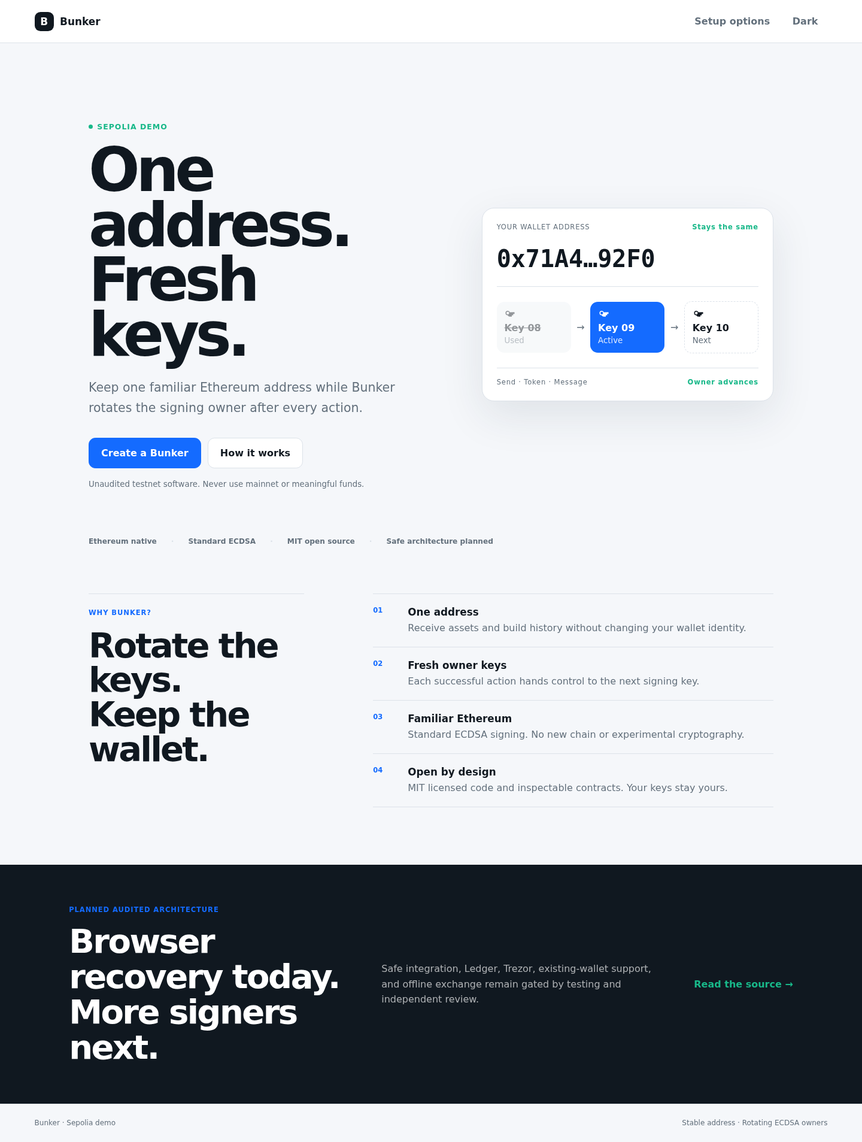
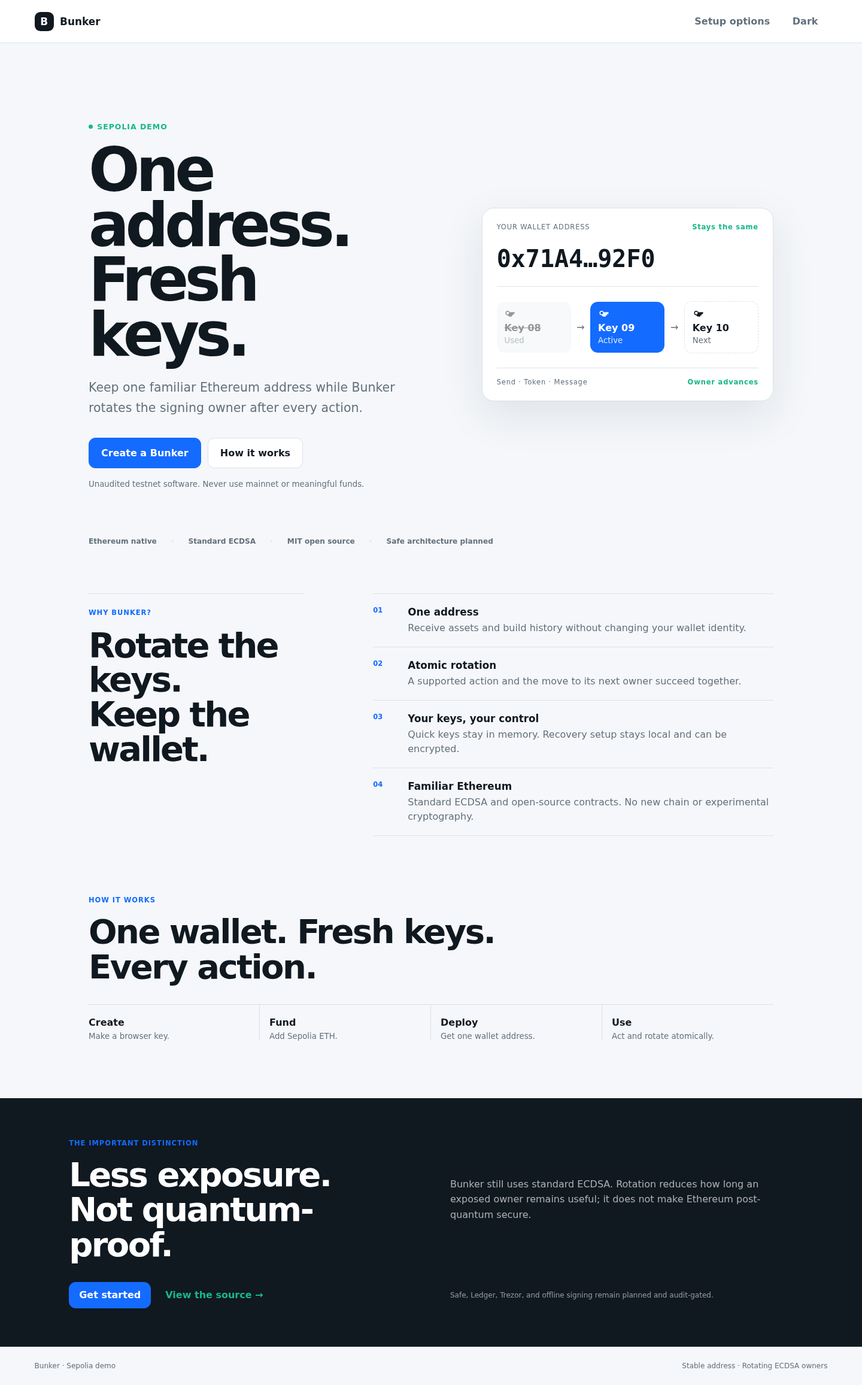
Clarify atomic rotation and quantum limits

diff --git a/apps/web/src/styles.css b/apps/web/src/styles.css
@@ -1,1 +1,1 @@
-:root{font-family:ui-sans-serif,-apple-system,BlinkMacSystemFont,"Segoe UI",sans-serif;font-synthesis:none;color-scheme:light;background:#f5f7fa}*{box-sizing:border-box}body{margin:0}button,input,textarea{font:inherit}.site{--bg:#f5f7fa;--surface:#fff;--soft:#eef2f6;--line:#dce2e9;--text:#101820;--muted:#63707c;--accent:#146bff;--mint:#18b889;--ink:#fff;min-height:100vh;background:var(--bg);color:var(--text)}.site.dark{--bg:#0b0f14;--surface:#121820;--soft:#18212b;--line:#283442;--text:#f1f5f8;--muted:#9eabb7;--accent:#5c95ff;--mint:#4dd4aa;--ink:#071018;color-scheme:dark}::selection{background:var(--accent);color:#fff}button{border:1px solid var(--line);background:var(--surface);color:var(--text);border-radius:.7rem;padding:.72rem 1rem;font-weight:650;cursor:pointer}button:hover:not(:disabled){border-color:var(--accent)}button:disabled{opacity:.48;cursor:not-allowed}button:focus-visible,input:focus-visible,textarea:focus-visible,a:focus-visible{outline:3px solid var(--accent);outline-offset:2px}.primary{background:var(--accent);border-color:var(--accent);color:#fff}.wide{width:100%;padding:.95rem}.top{height:72px;display:flex;align-items:center;padding:0 clamp(1rem,4vw,4rem);border-bottom:1px solid var(--line);background:color-mix(in srgb,var(--surface),transparent 8%);position:relative;z-index:2}.brand{border:0;background:transparent;padding:0;display:flex;align-items:center;gap:.65rem;font-size:1.06rem}.brand span{display:grid;place-items:center;width:32px;height:32px;border-radius:.6rem;background:var(--text);color:var(--surface);font-weight:900}.top nav{margin-left:auto;display:flex;gap:.35rem}.top nav button{border:0;background:transparent;color:var(--muted)}.top nav button:hover{color:var(--text);background:var(--soft)}.toast{position:fixed;top:84px;left:50%;transform:translateX(-50%);z-index:10;background:var(--text);color:var(--surface);padding:.75rem 1rem;border-radius:2rem;box-shadow:0 12px 35px rgba(0,0,0,.16);font-size:.86rem;max-width:calc(100vw - 2rem)}main{min-height:calc(100vh - 136px)}.hero-new{max-width:1240px;margin:auto;padding:clamp(4rem,9vw,8rem) clamp(1rem,4vw,3rem) 5rem;display:grid;grid-template-columns:1fr .9fr;gap:clamp(3rem,8vw,8rem);align-items:center}.status-dot{display:inline-flex;align-items:center;gap:.45rem;color:var(--mint);font-size:.78rem;font-weight:750;text-transform:uppercase;letter-spacing:.08em}.status-dot:before{content:"";width:7px;height:7px;border-radius:50%;background:var(--mint)}h1,h2,p{margin-top:0}.hero-copy h1{font-size:clamp(3.5rem,7vw,6.8rem);line-height:.91;letter-spacing:-.065em;margin:1.25rem 0 1.6rem;max-width:10ch}.hero-copy>p{font-size:clamp(1.05rem,1.6vw,1.28rem);line-height:1.65;color:var(--muted);max-width:590px}.hero-actions,.secure-actions,.setup-actions{display:flex;gap:.7rem;flex-wrap:wrap;margin:2rem 0 1rem}.hero-actions button{padding:.95rem 1.25rem}.hero-copy>small{color:var(--muted)}.mechanism{background:var(--surface);border:1px solid var(--line);border-radius:1.25rem;padding:1.5rem;box-shadow:0 24px 70px rgba(34,51,68,.1)}.address-head,.action-line{display:flex;justify-content:space-between;gap:1rem;font-size:.72rem;color:var(--muted);letter-spacing:.07em}.address-head b,.action-line b{color:var(--mint)}.mechanism>code{display:block;font:700 clamp(1.5rem,3vw,2.5rem)/1 ui-monospace,SFMono-Regular,monospace;padding:1.6rem 0;border-bottom:1px solid var(--line)}.key-track{display:grid;grid-template-columns:1fr auto 1fr auto 1fr;align-items:center;gap:.6rem;padding:1.5rem 0}.key{display:grid;gap:.25rem;padding:.8rem;border-radius:.8rem;background:var(--soft)}.key svg{width:20px;fill:currentColor}.key span{font-weight:750}.key small{color:var(--muted)}.key.spent{opacity:.45}.key.spent span{text-decoration:line-through}.key.active{background:var(--accent);color:#fff}.key.active small{color:#dfeaff}.key.next{border:1px dashed var(--line);background:transparent}.key-track>i{font-style:normal;color:var(--muted)}.action-line{padding-top:1rem;border-top:1px solid var(--line)}.button-link{display:inline-flex;align-items:center;border:1px solid var(--line);background:var(--surface);color:var(--text);border-radius:.7rem;padding:.95rem 1.25rem;font-weight:650;text-decoration:none}.button-link:hover{border-color:var(--accent)}.trust-line{max-width:1240px;margin:auto;padding:0 clamp(1rem,4vw,3rem) 5rem;display:flex;gap:1.5rem;flex-wrap:wrap;color:var(--muted);font-size:.76rem;font-weight:700}.trust-line span+span:before{content:"·";margin-right:1.5rem;color:var(--line)}.why{max-width:1240px;margin:auto;padding:0 clamp(1rem,4vw,3rem) 6rem;display:grid;grid-template-columns:.7fr 1.3fr;gap:clamp(3rem,8vw,8rem)}.why-head{border-top:1px solid var(--line);padding-top:1.2rem}.why-head>span,.roadmap span{color:var(--accent);font-size:.72rem;font-weight:750;text-transform:uppercase;letter-spacing:.08em}.why-head h2{font-size:clamp(2.2rem,4vw,4.2rem);line-height:1;letter-spacing:-.05em;margin:1.2rem 0}.why-list{border-top:1px solid var(--line)}.why-list article{display:grid;grid-template-columns:42px 1fr;gap:1rem;padding:1.2rem 0;border-bottom:1px solid var(--line)}.why-list article>b{color:var(--accent);font-size:.72rem}.why-list h3{margin:0 0 .35rem;font-size:1.05rem}.why-list p{margin:0;color:var(--muted);line-height:1.5}.roadmap{background:var(--text);color:var(--surface);padding:4rem max(clamp(1rem,8vw,8rem),calc((100vw - 1240px)/2));display:grid;grid-template-columns:1fr 1fr auto;gap:3rem;align-items:center}.roadmap h2{font-size:clamp(2rem,4vw,3.5rem);line-height:1.05;letter-spacing:-.045em;margin:1rem 0 0}.roadmap p{color:color-mix(in srgb,var(--surface),transparent 35%);line-height:1.6;margin:0}.roadmap a{color:var(--mint);font-weight:750;text-decoration:none;white-space:nowrap}.setup,.advanced,.secure{width:min(720px,calc(100% - 2rem));margin:auto;padding:clamp(3rem,8vw,7rem) 0}.ephemeral-note{font-size:.8rem;color:var(--muted);border-left:1px solid var(--mint);padding-left:.8rem}.setup h1,.advanced h1,.secure h1{font-size:clamp(2.5rem,6vw,4.8rem);line-height:.98;letter-spacing:-.05em;margin:2rem 0 1rem}.stepper{display:grid;grid-template-columns:repeat(3,1fr);position:relative}.stepper:before{content:"";position:absolute;left:2rem;right:2rem;top:17px;height:1px;background:var(--line)}.stepper span{position:relative;display:grid;justify-items:center;gap:.5rem;color:var(--muted);font-size:.72rem}.stepper span:first-letter{background:var(--surface)}.stepper span b{font-size:.8rem}.stepper span.done{color:var(--mint)}.setup-address,.stable{margin:2rem 0;background:var(--surface);border:1px solid var(--line);border-radius:1rem;padding:1rem;display:grid;grid-template-columns:1fr auto;gap:.65rem;align-items:center}.setup-address span,.stable span{font-size:.75rem;color:var(--muted)}.setup-address code,.stable code{grid-column:1/2;overflow-wrap:anywhere;color:var(--accent)}.setup-address button{grid-row:1/3;grid-column:2}.balance-row{display:flex;justify-content:space-between;border-block:1px solid var(--line);padding:1.2rem 0}.setup-actions button{flex:1}.text-button,.back{border:0;background:transparent;color:var(--muted);padding-left:0}.wallet{max-width:1180px;margin:auto;padding:clamp(2.5rem,6vw,5rem) 1rem}.wallet-top{display:grid;grid-template-columns:1fr 340px;gap:2rem;align-items:end}.wallet-top h1{font-size:clamp(3.5rem,7vw,6rem);letter-spacing:-.06em;margin:1rem 0 .5rem}.address-copy{border:0;padding-left:0;background:transparent;color:var(--muted)}.spendable{display:block;color:var(--muted);margin-bottom:.6rem}.rotation-card{background:var(--text);color:var(--surface);padding:1.4rem;border-radius:1rem}.rotation-card>span{font-size:.68rem;letter-spacing:.1em}.rotation-card strong{display:block;font-size:2rem;margin:.5rem 0}.rotation-card p{color:color-mix(in srgb,var(--surface),transparent 35%);font-size:.8rem}.rotation-card>div{height:5px;background:color-mix(in srgb,var(--surface),transparent 80%);border-radius:5px}.rotation-card i{display:block;height:100%;background:var(--mint);border-radius:5px}.stable{grid-template-columns:1fr auto}.stable b{grid-row:1/3;grid-column:2;color:var(--mint);font-size:.75rem}.wallet-grid{display:grid;grid-template-columns:1.25fr .75fr;gap:2rem;margin-top:2rem}.actions-panel,.activity{background:var(--surface);border:1px solid var(--line);border-radius:1rem;padding:1.4rem}.action-tabs{display:flex;gap:.4rem;border-bottom:1px solid var(--line);margin:-.3rem -.3rem 1.5rem;padding:0 .3rem 1rem}.action-tabs button{display:flex;gap:.4rem;align-items:center;border:0;background:transparent;color:var(--muted)}.action-tabs button.active{background:var(--soft);color:var(--text)}svg{width:18px;height:18px;fill:currentColor}.actions-panel h2,.activity h2{font-size:1.15rem}.actions-panel label{display:grid;gap:.45rem;margin:1rem 0;color:var(--muted);font-size:.78rem}.actions-panel input,.actions-panel textarea,.secure input,.secure textarea{width:100%;border:1px solid var(--line);background:var(--bg);color:var(--text);padding:.85rem;border-radius:.65rem}.split{display:grid;grid-template-columns:1fr 110px;gap:.7rem}.activity-row{display:grid;grid-template-columns:auto 1fr auto;gap:.8rem;align-items:start;padding:1rem 0;border-top:1px solid var(--line)}.activity-row>span{font-size:.65rem;background:var(--soft);padding:.3rem .45rem;border-radius:1rem;color:var(--muted)}.activity-row p{display:grid;gap:.25rem;margin:0}.activity-row small{color:var(--muted)}.activity-row a{color:var(--accent);font-size:.75rem}.option-list{display:grid;margin-top:2.5rem;border-top:1px solid var(--line)}.option-list button{border:0;border-bottom:1px solid var(--line);border-radius:0;background:transparent;display:grid;grid-template-columns:1fr auto;text-align:left;padding:1.2rem 0}.option-list button span{font-size:1rem}.option-list button small{grid-row:2;color:var(--muted);font-weight:400}.option-list button b{grid-row:1/3;grid-column:2;align-self:center;color:var(--accent)}.words{list-style:none;display:grid;grid-template-columns:repeat(4,1fr);gap:1px;background:var(--line);padding:1px;margin:2rem 0}.words li{background:var(--surface);padding:.8rem;font-weight:700}.words span{display:block;color:var(--muted);font-size:.65rem}.check{display:flex;gap:.6rem;align-items:center;color:var(--muted)}.check input{width:auto}.confirm{display:grid;grid-template-columns:repeat(3,1fr);gap:.7rem}.secure label{display:grid;gap:.45rem;margin:1rem 0;color:var(--muted);font-size:.8rem}footer{height:64px;border-top:1px solid var(--line);display:flex;justify-content:space-between;align-items:center;padding:0 clamp(1rem,4vw,4rem);color:var(--muted);font-size:.75rem}@media(max-width:760px){.top{height:64px}.top nav button:not(.theme){display:none}.hero-new{grid-template-columns:1fr;padding-top:3rem;gap:3rem}.hero-copy h1{font-size:3.8rem}.hero-actions{display:grid}.mechanism{padding:1rem}.key-track{gap:.3rem}.key{padding:.55rem}.key-track>i{display:none}.trust-line{display:grid;grid-template-columns:1fr 1fr;gap:.65rem 1rem}.trust-line span+span:before{content:none}.why{grid-template-columns:1fr;gap:1.5rem}.roadmap{grid-template-columns:1fr;gap:1.5rem}.roadmap a{white-space:normal}.wallet-top,.wallet-grid{grid-template-columns:1fr}.stable{grid-template-columns:1fr}.stable b{grid-row:auto;grid-column:1}.words{grid-template-columns:repeat(3,1fr)}.confirm{grid-template-columns:1fr}.setup-actions,.secure-actions{display:grid}.action-tabs button{padding:.65rem}.toast{top:72px}}@media(prefers-reduced-motion:reduce){*{scroll-behavior:auto!important;transition:none!important}}
+:root{font-family:ui-sans-serif,-apple-system,BlinkMacSystemFont,"Segoe UI",sans-serif;font-synthesis:none;color-scheme:light;background:#f5f7fa}*{box-sizing:border-box}body{margin:0}button,input,textarea{font:inherit}.site{--bg:#f5f7fa;--surface:#fff;--soft:#eef2f6;--line:#dce2e9;--text:#101820;--muted:#63707c;--accent:#146bff;--mint:#18b889;--ink:#fff;min-height:100vh;background:var(--bg);color:var(--text)}.site.dark{--bg:#0b0f14;--surface:#121820;--soft:#18212b;--line:#283442;--text:#f1f5f8;--muted:#9eabb7;--accent:#5c95ff;--mint:#4dd4aa;--ink:#071018;color-scheme:dark}::selection{background:var(--accent);color:#fff}button{border:1px solid var(--line);background:var(--surface);color:var(--text);border-radius:.7rem;padding:.72rem 1rem;font-weight:650;cursor:pointer}button:hover:not(:disabled){border-color:var(--accent)}button:disabled{opacity:.48;cursor:not-allowed}button:focus-visible,input:focus-visible,textarea:focus-visible,a:focus-visible{outline:3px solid var(--accent);outline-offset:2px}.primary{background:var(--accent);border-color:var(--accent);color:#fff}.wide{width:100%;padding:.95rem}.top{height:72px;display:flex;align-items:center;padding:0 clamp(1rem,4vw,4rem);border-bottom:1px solid var(--line);background:color-mix(in srgb,var(--surface),transparent 8%);position:relative;z-index:2}.brand{border:0;background:transparent;padding:0;display:flex;align-items:center;gap:.65rem;font-size:1.06rem}.brand span{display:grid;place-items:center;width:32px;height:32px;border-radius:.6rem;background:var(--text);color:var(--surface);font-weight:900}.top nav{margin-left:auto;display:flex;gap:.35rem}.top nav button{border:0;background:transparent;color:var(--muted)}.top nav button:hover{color:var(--text);background:var(--soft)}.toast{position:fixed;top:84px;left:50%;transform:translateX(-50%);z-index:10;background:var(--text);color:var(--surface);padding:.75rem 1rem;border-radius:2rem;box-shadow:0 12px 35px rgba(0,0,0,.16);font-size:.86rem;max-width:calc(100vw - 2rem)}main{min-height:calc(100vh - 136px)}.hero-new{max-width:1240px;margin:auto;padding:clamp(4rem,9vw,8rem) clamp(1rem,4vw,3rem) 5rem;display:grid;grid-template-columns:1fr .9fr;gap:clamp(3rem,8vw,8rem);align-items:center}.status-dot{display:inline-flex;align-items:center;gap:.45rem;color:var(--mint);font-size:.78rem;font-weight:750;text-transform:uppercase;letter-spacing:.08em}.status-dot:before{content:"";width:7px;height:7px;border-radius:50%;background:var(--mint)}h1,h2,p{margin-top:0}.hero-copy h1{font-size:clamp(3.5rem,7vw,6.8rem);line-height:.91;letter-spacing:-.065em;margin:1.25rem 0 1.6rem;max-width:10ch}.hero-copy>p{font-size:clamp(1.05rem,1.6vw,1.28rem);line-height:1.65;color:var(--muted);max-width:590px}.hero-actions,.secure-actions,.setup-actions{display:flex;gap:.7rem;flex-wrap:wrap;margin:2rem 0 1rem}.hero-actions button{padding:.95rem 1.25rem}.hero-copy>small{color:var(--muted)}.mechanism{background:var(--surface);border:1px solid var(--line);border-radius:1.25rem;padding:1.5rem;box-shadow:0 24px 70px rgba(34,51,68,.1)}.address-head,.action-line{display:flex;justify-content:space-between;gap:1rem;font-size:.72rem;color:var(--muted);letter-spacing:.07em}.address-head b,.action-line b{color:var(--mint)}.mechanism>code{display:block;font:700 clamp(1.5rem,3vw,2.5rem)/1 ui-monospace,SFMono-Regular,monospace;padding:1.6rem 0;border-bottom:1px solid var(--line)}.key-track{display:grid;grid-template-columns:1fr auto 1fr auto 1fr;align-items:center;gap:.6rem;padding:1.5rem 0}.key{display:grid;gap:.25rem;padding:.8rem;border-radius:.8rem;background:var(--soft)}.key svg{width:20px;fill:currentColor}.key span{font-weight:750}.key small{color:var(--muted)}.key.spent{opacity:.45}.key.spent span{text-decoration:line-through}.key.active{background:var(--accent);color:#fff}.key.active small{color:#dfeaff}.key.next{border:1px dashed var(--line);background:transparent}.key-track>i{font-style:normal;color:var(--muted)}.action-line{padding-top:1rem;border-top:1px solid var(--line)}.button-link{display:inline-flex;align-items:center;border:1px solid var(--line);background:var(--surface);color:var(--text);border-radius:.7rem;padding:.95rem 1.25rem;font-weight:650;text-decoration:none}.button-link:hover{border-color:var(--accent)}.trust-line{max-width:1240px;margin:auto;padding:0 clamp(1rem,4vw,3rem) 5rem;display:flex;gap:1.5rem;flex-wrap:wrap;color:var(--muted);font-size:.76rem;font-weight:700}.trust-line span+span:before{content:"·";margin-right:1.5rem;color:var(--line)}.why{max-width:1240px;margin:auto;padding:0 clamp(1rem,4vw,3rem) 6rem;display:grid;grid-template-columns:.7fr 1.3fr;gap:clamp(3rem,8vw,8rem)}.why-head{border-top:1px solid var(--line);padding-top:1.2rem}.why-head>span,.roadmap span{color:var(--accent);font-size:.72rem;font-weight:750;text-transform:uppercase;letter-spacing:.08em}.why-head h2{font-size:clamp(2.2rem,4vw,4.2rem);line-height:1;letter-spacing:-.05em;margin:1.2rem 0}.why-list{border-top:1px solid var(--line)}.why-list article{display:grid;grid-template-columns:42px 1fr;gap:1rem;padding:1.2rem 0;border-bottom:1px solid var(--line)}.why-list article>b{color:var(--accent);font-size:.72rem}.why-list h3{margin:0 0 .35rem;font-size:1.05rem}.why-list p{margin:0;color:var(--muted);line-height:1.5}.flow{max-width:1240px;margin:auto;padding:0 clamp(1rem,4vw,3rem) 6rem}.flow>span{color:var(--accent);font-size:.72rem;font-weight:750;text-transform:uppercase;letter-spacing:.08em}.flow h2{font-size:clamp(2rem,4vw,3.5rem);line-height:1.05;letter-spacing:-.045em;margin:1rem 0 2rem}.flow ol{list-style:none;margin:0;padding:0;display:grid;grid-template-columns:repeat(4,1fr);border-top:1px solid var(--line)}.flow li{padding:1.25rem 1rem 0 0;border-right:1px solid var(--line);display:grid;gap:.35rem}.flow li+li{padding-left:1rem}.flow li:last-child{border:0}.flow small{color:var(--muted)}.roadmap{background:var(--text);color:var(--surface);padding:4rem max(clamp(1rem,8vw,8rem),calc((100vw - 1240px)/2));display:grid;grid-template-columns:1fr 1fr;gap:2rem 4rem;align-items:center}.roadmap h2{font-size:clamp(2rem,4vw,3.5rem);line-height:1.05;letter-spacing:-.045em;margin:1rem 0 0}.roadmap p{color:color-mix(in srgb,var(--surface),transparent 35%);line-height:1.6;margin:0}.roadmap-links{display:flex;align-items:center;gap:1.5rem}.roadmap a{color:var(--mint);font-weight:750;text-decoration:none;white-space:nowrap}.roadmap>small{color:color-mix(in srgb,var(--surface),transparent 45%);grid-column:2;font-size:.75rem}.setup,.advanced,.secure{width:min(720px,calc(100% - 2rem));margin:auto;padding:clamp(3rem,8vw,7rem) 0}.ephemeral-note{font-size:.8rem;color:var(--muted);border-left:1px solid var(--mint);padding-left:.8rem}.setup h1,.advanced h1,.secure h1{font-size:clamp(2.5rem,6vw,4.8rem);line-height:.98;letter-spacing:-.05em;margin:2rem 0 1rem}.stepper{display:grid;grid-template-columns:repeat(3,1fr);position:relative}.stepper:before{content:"";position:absolute;left:2rem;right:2rem;top:17px;height:1px;background:var(--line)}.stepper span{position:relative;display:grid;justify-items:center;gap:.5rem;color:var(--muted);font-size:.72rem}.stepper span:first-letter{background:var(--surface)}.stepper span b{font-size:.8rem}.stepper span.done{color:var(--mint)}.setup-address,.stable{margin:2rem 0;background:var(--surface);border:1px solid var(--line);border-radius:1rem;padding:1rem;display:grid;grid-template-columns:1fr auto;gap:.65rem;align-items:center}.setup-address span,.stable span{font-size:.75rem;color:var(--muted)}.setup-address code,.stable code{grid-column:1/2;overflow-wrap:anywhere;color:var(--accent)}.setup-address button{grid-row:1/3;grid-column:2}.balance-row{display:flex;justify-content:space-between;border-block:1px solid var(--line);padding:1.2rem 0}.setup-actions button{flex:1}.text-button,.back{border:0;background:transparent;color:var(--muted);padding-left:0}.wallet{max-width:1180px;margin:auto;padding:clamp(2.5rem,6vw,5rem) 1rem}.wallet-top{display:grid;grid-template-columns:1fr 340px;gap:2rem;align-items:end}.wallet-top h1{font-size:clamp(3.5rem,7vw,6rem);letter-spacing:-.06em;margin:1rem 0 .5rem}.address-copy{border:0;padding-left:0;background:transparent;color:var(--muted)}.spendable{display:block;color:var(--muted);margin-bottom:.6rem}.rotation-card{background:var(--text);color:var(--surface);padding:1.4rem;border-radius:1rem}.rotation-card>span{font-size:.68rem;letter-spacing:.1em}.rotation-card strong{display:block;font-size:2rem;margin:.5rem 0}.rotation-card p{color:color-mix(in srgb,var(--surface),transparent 35%);font-size:.8rem}.rotation-card>div{height:5px;background:color-mix(in srgb,var(--surface),transparent 80%);border-radius:5px}.rotation-card i{display:block;height:100%;background:var(--mint);border-radius:5px}.stable{grid-template-columns:1fr auto}.stable b{grid-row:1/3;grid-column:2;color:var(--mint);font-size:.75rem}.wallet-grid{display:grid;grid-template-columns:1.25fr .75fr;gap:2rem;margin-top:2rem}.actions-panel,.activity{background:var(--surface);border:1px solid var(--line);border-radius:1rem;padding:1.4rem}.action-tabs{display:flex;gap:.4rem;border-bottom:1px solid var(--line);margin:-.3rem -.3rem 1.5rem;padding:0 .3rem 1rem}.action-tabs button{display:flex;gap:.4rem;align-items:center;border:0;background:transparent;color:var(--muted)}.action-tabs button.active{background:var(--soft);color:var(--text)}svg{width:18px;height:18px;fill:currentColor}.actions-panel h2,.activity h2{font-size:1.15rem}.actions-panel label{display:grid;gap:.45rem;margin:1rem 0;color:var(--muted);font-size:.78rem}.actions-panel input,.actions-panel textarea,.secure input,.secure textarea{width:100%;border:1px solid var(--line);background:var(--bg);color:var(--text);padding:.85rem;border-radius:.65rem}.split{display:grid;grid-template-columns:1fr 110px;gap:.7rem}.activity-row{display:grid;grid-template-columns:auto 1fr auto;gap:.8rem;align-items:start;padding:1rem 0;border-top:1px solid var(--line)}.activity-row>span{font-size:.65rem;background:var(--soft);padding:.3rem .45rem;border-radius:1rem;color:var(--muted)}.activity-row p{display:grid;gap:.25rem;margin:0}.activity-row small{color:var(--muted)}.activity-row a{color:var(--accent);font-size:.75rem}.option-list{display:grid;margin-top:2.5rem;border-top:1px solid var(--line)}.option-list button{border:0;border-bottom:1px solid var(--line);border-radius:0;background:transparent;display:grid;grid-template-columns:1fr auto;text-align:left;padding:1.2rem 0}.option-list button span{font-size:1rem}.option-list button small{grid-row:2;color:var(--muted);font-weight:400}.option-list button b{grid-row:1/3;grid-column:2;align-self:center;color:var(--accent)}.words{list-style:none;display:grid;grid-template-columns:repeat(4,1fr);gap:1px;background:var(--line);padding:1px;margin:2rem 0}.words li{background:var(--surface);padding:.8rem;font-weight:700}.words span{display:block;color:var(--muted);font-size:.65rem}.check{display:flex;gap:.6rem;align-items:center;color:var(--muted)}.check input{width:auto}.confirm{display:grid;grid-template-columns:repeat(3,1fr);gap:.7rem}.secure label{display:grid;gap:.45rem;margin:1rem 0;color:var(--muted);font-size:.8rem}footer{height:64px;border-top:1px solid var(--line);display:flex;justify-content:space-between;align-items:center;padding:0 clamp(1rem,4vw,4rem);color:var(--muted);font-size:.75rem}@media(max-width:760px){.top{height:64px}.top nav button:not(.theme){display:none}.hero-new{grid-template-columns:1fr;padding-top:3rem;gap:3rem}.hero-copy h1{font-size:3.8rem}.hero-actions{display:grid}.mechanism{padding:1rem}.key-track{gap:.3rem}.key{padding:.55rem}.key-track>i{display:none}.trust-line{display:grid;grid-template-columns:1fr 1fr;gap:.65rem 1rem}.trust-line span+span:before{content:none}.why{grid-template-columns:1fr;gap:1.5rem}.flow ol{grid-template-columns:1fr 1fr}.flow li{border-bottom:1px solid var(--line);border-right:0;padding:1rem 0}.flow li+li{padding-left:0}.roadmap{grid-template-columns:1fr;gap:1.5rem}.roadmap a{white-space:normal}.roadmap>small{grid-column:1}.wallet-top,.wallet-grid{grid-template-columns:1fr}.stable{grid-template-columns:1fr}.stable b{grid-row:auto;grid-column:1}.words{grid-template-columns:repeat(3,1fr)}.confirm{grid-template-columns:1fr}.setup-actions,.secure-actions{display:grid}.action-tabs button{padding:.65rem}.toast{top:72px}}@media(prefers-reduced-motion:reduce){*{scroll-behavior:auto!important;transition:none!important}}

diff --git a/apps/web/src/App.tsx b/apps/web/src/App.tsx
@@ -31,7 +31,7 @@ export default function App(){
  onCleanup(()=>{wipe();clearEphemeralBurner()});
  return <div class={`site ${theme()}`}><header class="top"><button class="brand" onClick={()=>go(walletAddress()?"wallet":"landing")}><span>B</span>Bunker</button><nav><Show when={walletAddress()}><button onClick={()=>go("wallet")}>Wallet</button></Show><button onClick={()=>go("advanced")}>Setup options</button><button class="theme" onClick={()=>setTheme(theme()==="light"?"dark":"light")}>{theme()==="light"?"Dark":"Light"}</button><Show when={walletAddress()}><button onClick={exit}>Exit</button></Show></nav></header><Show when={notice()}><div class="toast" role="status">{notice()}</div></Show>
  <main>
- <Show when={view()==="landing"}><section class="hero-new"><div class="hero-copy"><span class="status-dot">Sepolia demo</span><h1>One address.<br/>Fresh keys.</h1><p>Keep one familiar Ethereum address while Bunker rotates the signing owner after every action.</p><div class="hero-actions"><button class="primary" onClick={begin}>Create a Bunker</button><a class="button-link" href="#how-it-works">How it works</a></div><small>Unaudited testnet software. Never use mainnet or meaningful funds.</small></div><div class="mechanism" aria-label="Stable wallet address with rotating owner keys"><div class="address-head"><span>YOUR WALLET ADDRESS</span><b>Stays the same</b></div><code>0x71A4…92F0</code><div class="key-track"><div class="key spent"><Icon name="key"/><span>Key 08</span><small>Used</small></div><i>→</i><div class="key active"><Icon name="key"/><span>Key 09</span><small>Active</small></div><i>→</i><div class="key next"><Icon name="key"/><span>Key 10</span><small>Next</small></div></div><div class="action-line"><span>Send · Token · Message</span><b>Owner advances</b></div></div></section><div class="trust-line"><span>Ethereum native</span><span>Standard ECDSA</span><span>MIT open source</span><span>Safe architecture planned</span></div><section class="why" id="how-it-works"><div class="why-head"><span>Why Bunker?</span><h2>Rotate the keys.<br/>Keep the wallet.</h2></div><div class="why-list"><article><b>01</b><div><h3>One address</h3><p>Receive assets and build history without changing your wallet identity.</p></div></article><article><b>02</b><div><h3>Fresh owner keys</h3><p>Each successful action hands control to the next signing key.</p></div></article><article><b>03</b><div><h3>Familiar Ethereum</h3><p>Standard ECDSA signing. No new chain or experimental cryptography.</p></div></article><article><b>04</b><div><h3>Open by design</h3><p>MIT licensed code and inspectable contracts. Your keys stay yours.</p></div></article></div></section><section class="roadmap"><div><span>Planned audited architecture</span><h2>Browser recovery today.<br/>More signers next.</h2></div><p>Safe integration, Ledger, Trezor, existing-wallet support, and offline exchange remain gated by testing and independent review.</p><a href="https://github.com/SilentCicero/bunker-wallet" target="_blank" rel="noreferrer">Read the source →</a></section></Show>
+ <Show when={view()==="landing"}><section class="hero-new"><div class="hero-copy"><span class="status-dot">Sepolia demo</span><h1>One address.<br/>Fresh keys.</h1><p>Keep one familiar Ethereum address while Bunker rotates the signing owner after every action.</p><div class="hero-actions"><button class="primary" onClick={begin}>Create a Bunker</button><a class="button-link" href="#how-it-works">How it works</a></div><small>Unaudited testnet software. Never use mainnet or meaningful funds.</small></div><div class="mechanism" aria-label="Stable wallet address with rotating owner keys"><div class="address-head"><span>YOUR WALLET ADDRESS</span><b>Stays the same</b></div><code>0x71A4…92F0</code><div class="key-track"><div class="key spent"><Icon name="key"/><span>Key 08</span><small>Used</small></div><i>→</i><div class="key active"><Icon name="key"/><span>Key 09</span><small>Active</small></div><i>→</i><div class="key next"><Icon name="key"/><span>Key 10</span><small>Next</small></div></div><div class="action-line"><span>Send · Token · Message</span><b>Owner advances</b></div></div></section><div class="trust-line"><span>Ethereum native</span><span>Standard ECDSA</span><span>MIT open source</span><span>Safe architecture planned</span></div><section class="why" id="how-it-works"><div class="why-head"><span>Why Bunker?</span><h2>Rotate the keys.<br/>Keep the wallet.</h2></div><div class="why-list"><article><b>01</b><div><h3>One address</h3><p>Receive assets and build history without changing your wallet identity.</p></div></article><article><b>02</b><div><h3>Atomic rotation</h3><p>A supported action and the move to its next owner succeed together.</p></div></article><article><b>03</b><div><h3>Your keys, your control</h3><p>Quick keys stay in memory. Recovery setup stays local and can be encrypted.</p></div></article><article><b>04</b><div><h3>Familiar Ethereum</h3><p>Standard ECDSA and open-source contracts. No new chain or experimental cryptography.</p></div></article></div></section><section class="flow"><span>How it works</span><h2>One wallet. Fresh keys.<br/>Every action.</h2><ol><li><b>Create</b><small>Make a browser key.</small></li><li><b>Fund</b><small>Add Sepolia ETH.</small></li><li><b>Deploy</b><small>Get one wallet address.</small></li><li><b>Use</b><small>Act and rotate atomically.</small></li></ol></section><section class="roadmap"><div><span>The important distinction</span><h2>Less exposure.<br/>Not quantum-proof.</h2></div><p>Bunker still uses standard ECDSA. Rotation reduces how long an exposed owner remains useful; it does not make Ethereum post-quantum secure.</p><div class="roadmap-links"><button class="primary" onClick={begin}>Get started</button><a href="https://github.com/SilentCicero/bunker-wallet" target="_blank" rel="noreferrer">View the source →</a></div><small>Safe, Ledger, Trezor, and offline signing remain planned and audit-gated.</small></section></Show>
  <Show when={view()==="setup"}><section class="setup"><div class="stepper"><span class="done">1 <b>Key</b></span><span classList={{done:setupBalance()>=parseEther("0.007")}}>2 <b>Fund</b></span><span classList={{done:Boolean(walletAddress())}}>3 <b>Create</b></span></div><h1>{setupBalance()>=parseEther("0.007")?"Create your stable wallet.":"Add Sepolia test ETH."}</h1><p>{setupBalance()>=parseEther("0.007")?"Your setup key is funded. Create the wallet contract and move the test ETH into its permanent address.":"Your temporary setup address is ready and copied when you open a faucet."}</p><Show when={!recoverable()}><p class="ephemeral-note">Quick setup is memory-only. Do not refresh during funding or after wallet creation. Use Recovery phrase setup if you want restoration later.</p></Show><div class="setup-address"><span>Setup address</span><code>{setupAddress()}</code><button onClick={()=>copy(setupAddress())}>Copy</button></div><div class="balance-row"><span>Setup balance</span><strong>{Number(formatEther(setupBalance())).toFixed(4)} ETH</strong></div><Show when={setupBalance()>=parseEther("0.007")} fallback={<div class="setup-actions"><button class="primary" onClick={openFaucet}>Open QuickNode faucet</button><button onClick={checkFunding} disabled={Boolean(busy())}>{busy()||"I funded it — check balance"}</button></div>}><button class="primary wide" onClick={createStableWallet} disabled={Boolean(busy())}>{busy()||"Create stable wallet"}</button></Show><button class="text-button" onClick={()=>go("advanced")}>Use another setup method</button></section></Show>
  <Show when={view()==="wallet"&&walletAddress()}><section class="wallet"><div class="wallet-top"><div><span class="status-dot">Sepolia · live</span><h1>{Number(formatEther(walletBalance())).toFixed(4)} ETH</h1><small class="spendable">Keep 0.001 ETH for the next owner key on every action.</small><button class="address-copy" onClick={()=>copy(walletAddress())}>{short(walletAddress()!)} · Copy</button></div><div class="rotation-card"><span>OWNER ROTATION</span><strong>Key {rotation()+1}</strong><p>Active underneath your stable address</p><div><i style={{width:`${Math.min(100,(rotation()+1)*8)}%`}}/></div></div></div><div class="stable"><span>Stable wallet address</span><code>{walletAddress()}</code><b>Does not change</b></div><div class="wallet-grid"><section class="actions-panel"><div class="action-tabs"><button classList={{active:action()==="eth"}} onClick={()=>setAction("eth")}><Icon name="send"/>ETH</button><button classList={{active:action()==="token"}} onClick={()=>setAction("token")}><Icon name="token"/>Token</button><button classList={{active:action()==="message"}} onClick={()=>setAction("message")}><Icon name="message"/>Wall</button></div><Show when={action()==="eth"}><h2>Send ETH</h2><label>Recipient<input ref={to} placeholder="0x…"/></label><label>Amount<input ref={amount} inputmode="decimal" placeholder="0.001"/></label><button class="primary wide" onClick={runETH} disabled={Boolean(busy())}>{busy()||"Send + rotate key"}</button></Show><Show when={action()==="token"}><h2>Send ERC-20</h2><label>Token contract<input ref={token} placeholder="0x…"/></label><label>Recipient<input ref={to} placeholder="0x…"/></label><div class="split"><label>Amount<input ref={amount} placeholder="10"/></label><label>Decimals<input ref={decimals} value="18"/></label></div><button class="primary wide" onClick={runToken} disabled={Boolean(busy())}>{busy()||"Send token + rotate"}</button></Show><Show when={action()==="message"}><h2>Post to the Bunker wall</h2><p class="muted">Write a short on-chain message from this stable address.</p><textarea ref={message} maxlength="140" placeholder="Hello from my rotating wallet"/><button class="primary wide" onClick={runMessage} disabled={Boolean(busy())}>{busy()||"Post + rotate key"}</button></Show></section><aside class="activity"><h2>Under the hood</h2><For each={activity()}>{item=><div class="activity-row"><span>{item.index===rotation()?"Current":"Done"}</span><p><b>{item.label}</b><small>Owner key {item.index+1}</small></p>{item.hash&&<a href={`https://sepolia.etherscan.io/tx/${item.hash}`} target="_blank" rel="noreferrer">View</a>}</div>}</For></aside></div></section></Show>
  <Show when={view()==="advanced"}><section class="advanced"><button class="back" onClick={()=>go("landing")}>← Back</button><h1>Choose how to protect the setup key.</h1><p>Each method creates a stable wallet address with automatic owner rotation.</p><div class="option-list"><button onClick={createPhrase}><span>Recovery phrase</span><small>24 words · optional check and password</small><b>Set up</b></button><button onClick={()=>go("load")}><span>Load existing wallet</span><small>Encrypted vault or 24 words</small><b>Load</b></button><button disabled><span>Ledger</span><small>Hardware setup · compatibility verification in progress</small><b>Soon</b></button><button disabled><span>Trezor</span><small>Hardware setup · compatibility verification in progress</small><b>Soon</b></button><button disabled><span>EVM wallet</span><small>Manual next-key proof required</small><b>Soon</b></button></div></section></Show>

diff --git a/tests/e2e/web.e2e.ts b/tests/e2e/web.e2e.ts
@@ -2,6 +2,6 @@ import { expect, test } from "@playwright/test";
 import { mkdirSync } from "node:fs";
 const views=[["desktop",1440,900],["wide",1920,1080],["tablet",768,1024],["mobile",390,844],["mobile-small",360,800]] as const;
 test.beforeAll(()=>mkdirSync(".impeccable/review",{recursive:true}));
-for(const [name,width,height] of views)test(`${name} landing renders in both themes`,async({page})=>{await page.setViewportSize({width,height});await page.goto("/");await expect(page.getByRole("heading",{name:/One address.*Fresh keys/s})).toBeVisible();await expect(page.getByRole("button",{name:"Create a Bunker"})).toBeVisible();await expect(page.getByText("Rotate the keys.")).toBeVisible();await expect(page.getByText("Standard ECDSA signing. No new chain or experimental cryptography.")).toBeVisible();await expect(page.getByText("MIT open source")).toBeVisible();await expect(page.getByRole("link",{name:/Read the source/})).toHaveAttribute("href","https://github.com/SilentCicero/bunker-wallet");expect(await page.evaluate(()=>document.documentElement.scrollWidth<=document.documentElement.clientWidth)).toBe(true);await page.screenshot({path:`.impeccable/review/${name}-light.png`,fullPage:true});await page.getByRole("button",{name:"Dark"}).click();await page.screenshot({path:`.impeccable/review/${name}-dark.png`,fullPage:true})});
+for(const [name,width,height] of views)test(`${name} landing renders in both themes`,async({page})=>{await page.setViewportSize({width,height});await page.goto("/");await expect(page.getByRole("heading",{name:/One address.*Fresh keys/s})).toBeVisible();await expect(page.getByRole("button",{name:"Create a Bunker"})).toBeVisible();await expect(page.getByText("Rotate the keys.")).toBeVisible();await expect(page.getByText("A supported action and the move to its next owner succeed together.")).toBeVisible();await expect(page.getByText("Less exposure.")).toBeVisible();await expect(page.getByText("MIT open source")).toBeVisible();await expect(page.getByRole("link",{name:/View the source/})).toHaveAttribute("href","https://github.com/SilentCicero/bunker-wallet");expect(await page.evaluate(()=>document.documentElement.scrollWidth<=document.documentElement.clientWidth)).toBe(true);await page.screenshot({path:`.impeccable/review/${name}-light.png`,fullPage:true});await page.getByRole("button",{name:"Dark"}).click();await page.screenshot({path:`.impeccable/review/${name}-dark.png`,fullPage:true})});
 test("three-step demo creates a memory-only setup key and opens the QuickNode faucet",async({page})=>{await page.goto("/");await page.getByRole("button",{name:"Create a Bunker"}).click();await expect(page.getByRole("heading",{name:"Add Sepolia test ETH."})).toBeVisible();const address=await page.locator(".setup-address code").innerText();expect(address).toMatch(/^0x[0-9a-fA-F]{40}$/);expect(await page.evaluate(()=>Object.keys(localStorage).every(key=>!key.includes("burner")))).toBe(true);const popupPromise=page.waitForEvent("popup");await page.getByRole("button",{name:"Open QuickNode faucet"}).click();const popup=await popupPromise;expect(popup.url()).toContain("faucet.quicknode.com/ethereum/sepolia");await popup.close();await page.screenshot({path:".impeccable/review/setup-light.png",fullPage:true})});
 test("advanced phrase setup offers optional check and password",async({page})=>{await page.goto("/");await page.getByRole("button",{name:"Setup options"}).click();await page.getByRole("button",{name:/Recovery phrase/}).click();const next=page.getByRole("button",{name:"Check my backup"});await expect(next).toBeDisabled();await page.getByRole("checkbox").check();await expect(next).toBeEnabled();await expect(page.getByRole("button",{name:"Skip check"})).toBeEnabled()});
